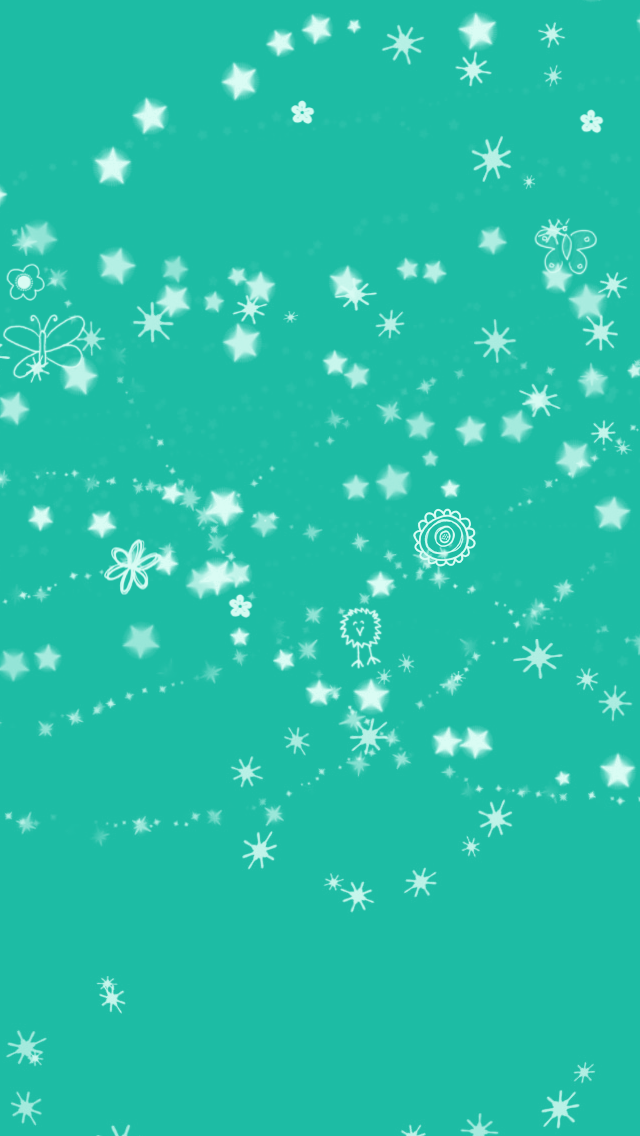
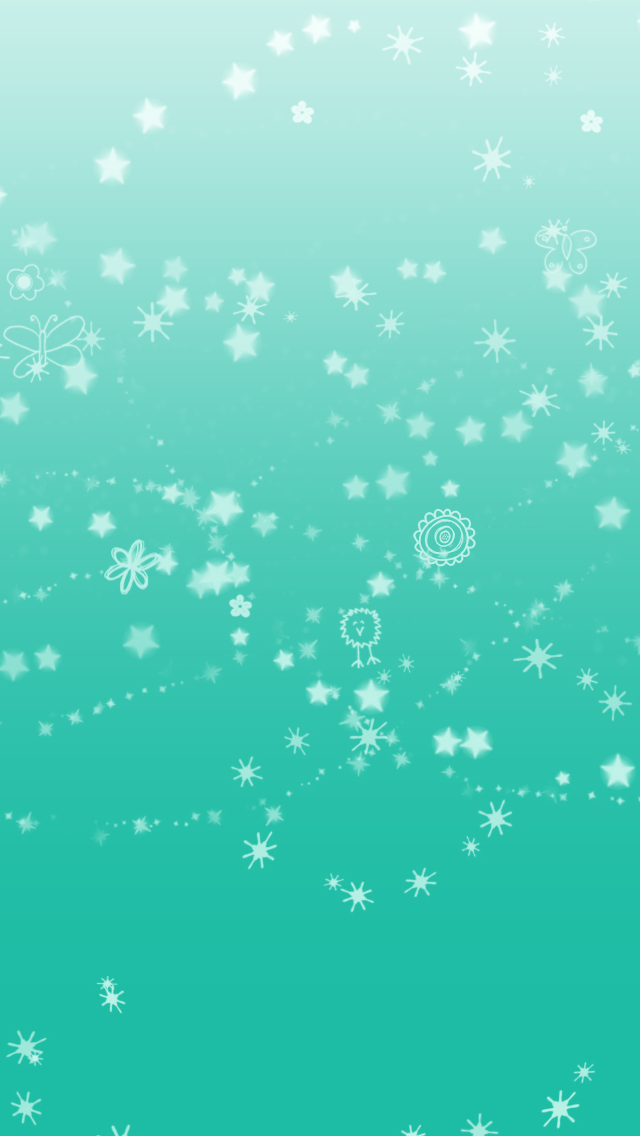
Task #1 Tab Bar Application
- create tabbar controller programmatically
- store images in bundle
- subclass all view controllers from BPBaseViewController

diff --git a/BabyPlanner/Classes/Controller/BPViewController/BPViewController.m b/BabyPlanner/Classes/Controller/BPViewController/BPViewController.m
@@ -1,0 +1,83 @@
+//
+//  BPViewController.m
+//  BabyPlanner
+//
+//  Created by Mykola Vyshynskyi on 24.06.13.
+//  Copyright (c) 2013 Mykola Vyshynskyi. All rights reserved.
+//
+
+#import "BPViewController.h"
+#import "BPUtils.h"
+
+@interface BPViewController ()
+
+@property (nonatomic, strong) UIImageView *navigationImageView;
+@property (nonatomic, strong) UIButton *backButton;
+@property (nonatomic, strong) UILabel *titleLabel;
+
+- (void)goBack;
+
+@end
+
+@implementation BPViewController
+
+- (id)initWithNibName:(NSString *)nibNameOrNil bundle:(NSBundle *)nibBundleOrNil
+{
+    self = [super initWithNibName:nibNameOrNil bundle:nibBundleOrNil];
+    if (self) {
+        // Custom initialization
+    }
+    return self;
+}
+
+- (void)viewDidLoad
+{
+    [super viewDidLoad];
+	// Do any additional setup after loading the view.
+    
+    self.navigationImageView = [[UIImageView alloc] initWithFrame:CGRectMake(0, 20.f, self.view.bounds.size.width, 47.f)];
+    self.navigationImageView.image = [BPUtils imageNamed:@"navigationbar_background"];
+    [self.view addSubview:self.navigationImageView];
+    
+    if (!self.navigationItem.hidesBackButton) {
+        self.backButton = [UIButton buttonWithType:UIButtonTypeCustom];
+        [self.backButton setBackgroundImage:[BPUtils imageNamed:@"navigationbar_backButton"] forState:UIControlStateNormal];
+        [self.backButton setTitle:BPLocalizedString(@"Back") forState:UIControlStateNormal];
+        self.backButton.titleEdgeInsets = UIEdgeInsetsMake(0, 8.f, 0, 0);
+        self.backButton.titleLabel.font = [UIFont fontWithName:@"HelveticaNeue-Bold" size:12];
+        self.backButton.titleLabel.shadowOffset = CGSizeMake(0, -1);
+        [self.backButton setTitleColor:RGB(255, 255, 255) forState:UIControlStateNormal];
+        [self.backButton setTitleShadowColor:RGBA(0, 0, 0, 0.5) forState:UIControlStateNormal];
+        self.backButton.frame = CGRectMake(8.f, self.navigationImageView.frame.origin.y + 7.f, 52.f, 32.f);
+        [self.backButton addTarget:self action:@selector(goBack) forControlEvents:UIControlEventTouchUpInside];
+//        self.backButton.adjustsImageWhenHighlighted = YES;
+        [self.view addSubview:self.backButton];
+    }
+    
+    self.titleLabel = [[UILabel alloc] initWithFrame:CGRectMake(68.f, 20.f, self.view.bounds.size.width - 2*68.f, 44.f)];
+    self.titleLabel.backgroundColor = [UIColor clearColor];
+    self.titleLabel.font = [UIFont fontWithName:@"Arial-BoldMT" size:20];
+    self.titleLabel.textAlignment = NSTextAlignmentCenter;
+    self.titleLabel.textColor = RGB(255, 255, 255);
+    self.titleLabel.shadowColor = RGBA(0, 0, 0, 0.29);
+    self.titleLabel.shadowOffset = CGSizeMake(-1, -1);
+    self.titleLabel.text = BPLocalizedString(self.title);
+    [self.view addSubview:self.titleLabel];
+    
+    NSLog(@"self.titleLabel = %@", self.titleLabel.font);
+    
+    NSLog(@"self.view = %@", self.view);
+}
+
+- (void)didReceiveMemoryWarning
+{
+    [super didReceiveMemoryWarning];
+    // Dispose of any resources that can be recreated.
+}
+
+- (void)goBack
+{
+    [self.navigationController popViewControllerAnimated:YES];
+}
+
+@end

diff --git a/BabyPlanner/Classes/Controller/BPTabBarController/BPTabBarController.m b/BabyPlanner/Classes/Controller/BPTabBarController/BPTabBarController.m
@@ -1,0 +1,56 @@
+//
+//  BPTabBarController.m
+//  BabyPlanner
+//
+//  Created by Mykola Vyshynskyi on 24.06.13.
+//  Copyright (c) 2013 Mykola Vyshynskyi. All rights reserved.
+//
+
+#import "BPTabBarController.h"
+#import "BPUtils.h"
+
+@interface BPTabBarController ()
+
+@end
+
+@implementation BPTabBarController
+
+- (id)initWithNibName:(NSString *)nibNameOrNil bundle:(NSBundle *)nibBundleOrNil
+{
+    self = [super initWithNibName:nibNameOrNil bundle:nibBundleOrNil];
+    if (self) {
+        for (NSString *fontFamily in [UIFont familyNames]) {
+            NSLog(@"%@", [UIFont fontNamesForFamilyName:fontFamily]);
+        }
+        
+        self.tabBar.backgroundImage = [BPUtils imageNamed:@"tabbar_background"];
+        self.tabBar.selectionIndicatorImage = [BPUtils imageNamed:@"tabbar_selectionIndicator"];
+        [[UITabBarItem appearance] setTitleTextAttributes:@{
+                                                            UITextAttributeTextColor: RGB(149, 149, 149),
+                                                            UITextAttributeTextShadowOffset: [NSValue valueWithUIOffset:UIOffsetZero],
+                                                            UITextAttributeFont: [UIFont fontWithName:@"HelveticaNeue" size:10]
+                                                            }
+                                                 forState:UIControlStateNormal];
+        [[UITabBarItem appearance] setTitleTextAttributes:@{
+                                                            UITextAttributeTextColor: RGB(255, 255, 255),
+                                                            UITextAttributeTextShadowOffset: [NSValue valueWithUIOffset:UIOffsetZero],
+                                                            UITextAttributeFont: [UIFont fontWithName:@"HelveticaNeue-Bold" size:10]
+                                                            }
+                                                 forState:UIControlStateSelected];
+    }
+    return self;
+}
+
+- (void)viewDidLoad
+{
+    [super viewDidLoad];
+	// Do any additional setup after loading the view.
+}
+
+- (void)didReceiveMemoryWarning
+{
+    [super didReceiveMemoryWarning];
+    // Dispose of any resources that can be recreated.
+}
+
+@end

diff --git a/BabyPlanner/Classes/AppDelegate/BPAppDelegate.m b/BabyPlanner/Classes/AppDelegate/BPAppDelegate.m
@@ -7,6 +7,12 @@
 //
 
 #import "BPAppDelegate.h"
+#import "BPTabBarController.h"
+#import "BPNavigationController.h"
+#import "BPMyTemperatureViewController.h"
+#import "BPMyChartsViewController.h"
+#import "BPMyPregnancyViewController.h"
+#import "BPSettingsViewController.h"
 
 @implementation BPAppDelegate
 
@@ -15,7 +21,20 @@
     // Override point for customization after application launch.
     [[UINavigationBar appearance] setBackgroundImage:[UIImage imageNamed:@"nav_background"] forBarMetrics:UIBarMetricsDefault];
     [[UIBarButtonItem appearance] setBackButtonBackgroundImage:[[UIImage imageNamed:@"nav_back_button"] resizableImageWithCapInsets:UIEdgeInsetsMake(0, 15, 0, 10)]  forState:UIControlStateNormal barMetrics:UIBarMetricsDefault];
-    [[UITabBar appearance] setSelectedImageTintColor:[UIColor colorWithRed:22/255.f green:165/255.f blue:74/255.f alpha:1.0]];
+//    [[UITabBar appearance] setSelectedImageTintColor:[UIColor colorWithRed:22/255.f green:165/255.f blue:74/255.f alpha:1.0]];
+    
+    self.window = [[UIWindow alloc] initWithFrame:[UIScreen mainScreen].bounds];
+    
+    BPNavigationController *myTemperatureViewController = [[BPNavigationController alloc] initWithRootViewController:[BPMyTemperatureViewController new]];
+    BPNavigationController *myChartsViewController = [[BPNavigationController alloc] initWithRootViewController:[BPMyChartsViewController new]];
+    BPNavigationController *myPregnancyViewController = [[BPNavigationController alloc] initWithRootViewController:[BPMyPregnancyViewController new]];
+    BPNavigationController *settingsViewController = [[BPNavigationController alloc] initWithRootViewController:[BPSettingsViewController new]];
+
+    BPTabBarController *tabBarController = [[BPTabBarController alloc] init];
+    tabBarController.viewControllers = @[myTemperatureViewController, myChartsViewController, myPregnancyViewController, settingsViewController];
+    
+    self.window.rootViewController = tabBarController;
+    [self.window makeKeyAndVisible];
     
     [application setStatusBarHidden:NO withAnimation:UIStatusBarAnimationNone];
     

diff --git a/BabyPlanner/Classes/Controller/BPBaseViewController/BPBaseViewController.m b/BabyPlanner/Classes/Controller/BPBaseViewController/BPBaseViewController.m
@@ -7,8 +7,11 @@
 //
 
 #import "BPBaseViewController.h"
+#import "BPUtils.h"
 
 @interface BPBaseViewController ()
+
+@property (nonatomic, strong) UIImageView *backgroundImageView;
 
 @end
 
@@ -18,7 +21,8 @@
 {
     self = [super initWithNibName:nibNameOrNil bundle:nibBundleOrNil];
     if (self) {
-        // Custom initialization
+        self.wantsFullScreenLayout = YES;
+        self.backgroundImage = [UIImage imageNamed:@"Default-568h"];
     }
     return self;
 }
@@ -28,19 +32,35 @@
     [super viewDidLoad];
 	// Do any additional setup after loading the view.
     
-    UIImageView *backgroundView = [[UIImageView alloc] initWithFrame:self.view.bounds];
-    backgroundView.autoresizingMask = UIViewAutoresizingFlexibleHeight|UIViewAutoresizingFlexibleWidth;
-    backgroundView.clipsToBounds = YES;
-    backgroundView.contentMode = UIViewContentModeTop;
-    backgroundView.image = [UIImage imageNamed:@"background_no_navbar"];
-    [self.view addSubview:backgroundView];
-    [self.view sendSubviewToBack:backgroundView];
+    self.backgroundImageView = [[UIImageView alloc] initWithFrame:self.view.bounds];
+    self.backgroundImageView.autoresizingMask = UIViewAutoresizingFlexibleHeight|UIViewAutoresizingFlexibleWidth;
+    self.backgroundImageView.clipsToBounds = YES;
+    self.backgroundImageView.contentMode = UIViewContentModeTop;
+    self.backgroundImageView.image = self.backgroundImage;
+    [self.view addSubview:self.backgroundImageView];
+    [self.view sendSubviewToBack:self.backgroundImageView];
+}
+
+- (void)setBackgroundImage:(UIImage *)backgroundImage
+{
+    if (_backgroundImage != backgroundImage) {
+        _backgroundImage = backgroundImage;
+        self.backgroundImageView.image = backgroundImage;
+    }
 }
 
 - (void)didReceiveMemoryWarning
 {
     [super didReceiveMemoryWarning];
     // Dispose of any resources that can be recreated.
+}
+
+- (void)setTitle:(NSString *)title
+{
+    [super setTitle:title];
+    
+    // set nav + tabbar
+    self.tabBarItem.title = BPLocalizedString(self.title);
 }
 
 @end

diff --git a/BabyPlanner/Classes/Controller/BPNavigationController/BPNavigationController.m b/BabyPlanner/Classes/Controller/BPNavigationController/BPNavigationController.m
@@ -1,27 +1,25 @@
 //
-//  BPMyPregnancyViewController.m
+//  BPNavigationController.m
 //  BabyPlanner
 //
-//  Created by Mykola Vyshynskyi on 30.03.13.
+//  Created by Mykola Vyshynskyi on 24.06.13.
 //  Copyright (c) 2013 Mykola Vyshynskyi. All rights reserved.
 //
 
-#import "BPMyPregnancyViewController.h"
-#import "BPUtils.h"
+#import "BPNavigationController.h"
 
-@interface BPMyPregnancyViewController ()
+@interface BPNavigationController ()
 
 @end
 
-@implementation BPMyPregnancyViewController
+@implementation BPNavigationController
 
 - (id)initWithNibName:(NSString *)nibNameOrNil bundle:(NSBundle *)nibBundleOrNil
 {
     self = [super initWithNibName:nibNameOrNil bundle:nibBundleOrNil];
     if (self) {
-        self.title = @"My Pregnancy";
-        [self.tabBarItem setFinishedSelectedImage:[BPUtils imageNamed:@"tabbar_mypregnancy_selected"]
-                      withFinishedUnselectedImage:[BPUtils imageNamed:@"tabbar_mypregnancy_unselected"]];
+        self.navigationBarHidden = YES;
+        self.navigationBar.translucent = NO;
     }
     return self;
 }

diff --git a/BabyPlanner/Classes/Controller/BPMyChartsViewController/BPMyChartsViewController.m b/BabyPlanner/Classes/Controller/BPMyChartsViewController/BPMyChartsViewController.m
@@ -7,6 +7,7 @@
 //
 
 #import "BPMyChartsViewController.h"
+#import "BPUtils.h"
 
 @interface BPMyChartsViewController ()
 
@@ -18,7 +19,10 @@
 {
     self = [super initWithNibName:nibNameOrNil bundle:nibBundleOrNil];
     if (self) {
-        // Custom initialization
+        self.navigationItem.hidesBackButton = YES;
+        self.title = @"My Charts";
+        [self.tabBarItem setFinishedSelectedImage:[BPUtils imageNamed:@"tabbar_mycharts_selected"]
+                      withFinishedUnselectedImage:[BPUtils imageNamed:@"tabbar_mycharts_unselected"]];
     }
     return self;
 }

diff --git a/BabyPlanner/Classes/Controller/BPMyTemperatureViewController/BPMyTemperatureViewController.m b/BabyPlanner/Classes/Controller/BPMyTemperatureViewController/BPMyTemperatureViewController.m
@@ -7,6 +7,7 @@
 //
 
 #import "BPMyTemperatureViewController.h"
+#import "BPUtils.h"
 
 @interface BPMyTemperatureViewController ()
 
@@ -18,7 +19,9 @@
 {
     self = [super initWithNibName:nibNameOrNil bundle:nibBundleOrNil];
     if (self) {
-        // Custom initialization
+        self.title = @"My Temperature";
+        [self.tabBarItem setFinishedSelectedImage:[BPUtils imageNamed:@"tabbar_mytemperature_selected"]
+                      withFinishedUnselectedImage:[BPUtils imageNamed:@"tabbar_mytemperature_unselected"]];
     }
     return self;
 }

diff --git a/BabyPlanner/Classes/Model/Utils/BPUtils.h b/BabyPlanner/Classes/Model/Utils/BPUtils.h
@@ -1,0 +1,20 @@
+//
+//  BPUtils.h
+//  BabyPlanner
+//
+//  Created by Mykola Vyshynskyi on 24.06.13.
+//  Copyright (c) 2013 Mykola Vyshynskyi. All rights reserved.
+//
+
+#import <Foundation/Foundation.h>
+
+#define RGB(r, g, b) [UIColor colorWithRed:(r)/255.0 green:(g)/255.0 blue:(b)/255.0 alpha:1]
+#define RGBA(r, g, b, a) [UIColor colorWithRed:(r)/255.0 green:(g)/255.0 blue:(b)/255.0 alpha:(a)]
+
+#define BPLocalizedString(key) NSLocalizedString((key), nil)
+
+@interface BPUtils : NSObject
+
++ (UIImage *)imageNamed:(NSString *)name;
+
+@end

diff --git a/BabyPlanner/Classes/Model/Utils/BPUtils.m b/BabyPlanner/Classes/Model/Utils/BPUtils.m
@@ -1,0 +1,18 @@
+//
+//  BPUtils.m
+//  BabyPlanner
+//
+//  Created by Mykola Vyshynskyi on 24.06.13.
+//  Copyright (c) 2013 Mykola Vyshynskyi. All rights reserved.
+//
+
+#import "BPUtils.h"
+
+@implementation BPUtils
+
++ (UIImage *)imageNamed:(NSString *)name
+{
+    return [UIImage imageNamed:[@"BPImages.bundle" stringByAppendingPathComponent:name]];
+}
+
+@end

diff --git a/BabyPlanner/Classes/Controller/BPNavigationController/BPNavigationController.h b/BabyPlanner/Classes/Controller/BPNavigationController/BPNavigationController.h
@@ -1,0 +1,13 @@
+//
+//  BPNavigationController.h
+//  BabyPlanner
+//
+//  Created by Mykola Vyshynskyi on 24.06.13.
+//  Copyright (c) 2013 Mykola Vyshynskyi. All rights reserved.
+//
+
+#import <UIKit/UIKit.h>
+
+@interface BPNavigationController : UINavigationController
+
+@end

diff --git a/BabyPlanner/Classes/Controller/BPViewController/BPViewController.h b/BabyPlanner/Classes/Controller/BPViewController/BPViewController.h
@@ -1,0 +1,13 @@
+//
+//  BPViewController.h
+//  BabyPlanner
+//
+//  Created by Mykola Vyshynskyi on 24.06.13.
+//  Copyright (c) 2013 Mykola Vyshynskyi. All rights reserved.
+//
+
+#import "BPBaseViewController.h"
+
+@interface BPViewController : BPBaseViewController
+
+@end

diff --git a/BabyPlanner/Classes/Controller/BPTabBarController/BPTabBarController.h b/BabyPlanner/Classes/Controller/BPTabBarController/BPTabBarController.h
@@ -1,0 +1,13 @@
+//
+//  BPTabBarController.h
+//  BabyPlanner
+//
+//  Created by Mykola Vyshynskyi on 24.06.13.
+//  Copyright (c) 2013 Mykola Vyshynskyi. All rights reserved.
+//
+
+#import <UIKit/UIKit.h>
+
+@interface BPTabBarController : UITabBarController
+
+@end
